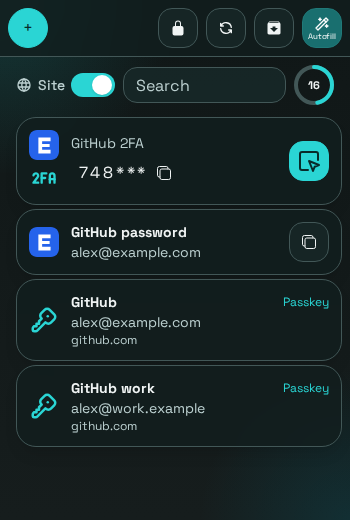
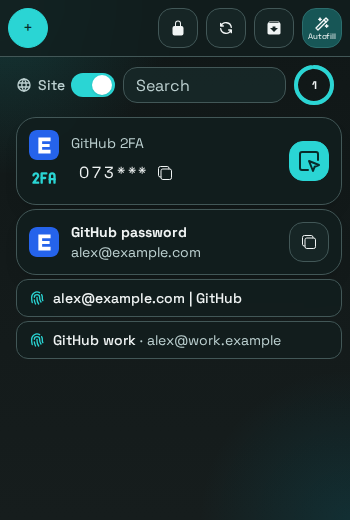
Compact popup passkeys into single-line informational rows

diff --git a/web-extension/src/components/pages/AuthsList.tsx b/web-extension/src/components/pages/AuthsList.tsx
@@ -2,7 +2,7 @@ import { useContext, useEffect, useState } from 'react'
 import { t } from '@lingui/core/macro'
 import browser from 'webextension-polyfill'
 import debug from 'debug'
-import { TbAuth2Fa, TbKey } from 'react-icons/tb'
+import { TbAuth2Fa, TbFingerprint } from 'react-icons/tb'
 import { IoBanOutline, IoCopyOutline } from 'react-icons/io5'
 import { DeviceStateContext } from '@src/providers/DeviceStateProvider'
 import type {
@@ -13,6 +13,7 @@ import type {
 import { Button } from '@src/components/ui/button'
 import { Tooltip } from '@src/components/ui/tooltip'
 import { copyTextToClipboard } from '@src/lib/clipboard'
+import { cn } from '@src/lib/cn'
 import { SecretItemIcon } from '../SecretItemIcon'
 import { useAddOtpEventMutation } from './AuthList.codegen'
 import { getDomainNameAndTldFromUrl } from '@shared/urlUtils'
@@ -184,41 +185,35 @@ const PasskeyListItem = ({
   passkey
 }: {
   passkey: Pick<IPasskeySecret['passkey'], 'label' | 'rpId' | 'userName'>
-}) => (
-  <div className={cardClassName}>
-    <div className="flex items-center gap-3">
-      <TbKey
+}) => {
+  const label = passkey.label || passkey.rpId
+  const showAccount = passkey.userName && !label.includes(passkey.userName)
+
+  return (
+    <div
+      className={cn(
+        cardClassName,
+        'flex items-center gap-2 rounded-xl py-2 shadow-none'
+      )}
+      title={`${label}\n${passkey.userName}\n${passkey.rpId}`}
+    >
+      <TbFingerprint
         aria-hidden
-        className="size-[30px] shrink-0 text-[color:var(--color-primary)]"
+        className="size-4 shrink-0 text-[color:var(--color-primary)]"
       />
-      <div className="min-w-0 flex-1">
-        <div className="flex items-center justify-between gap-2">
-          <h3
-            className="truncate text-sm font-semibold"
-            title={passkey.label || passkey.rpId}
-          >
-            {passkey.label || passkey.rpId}
-          </h3>
-          <span className="shrink-0 text-xs text-[color:var(--color-primary)]">
-            Passkey
+      <p className="min-w-0 flex-1 truncate text-sm">
+        <span className="sr-only">Passkey: </span>
+        <span className="font-medium">{label}</span>
+        {showAccount && (
+          <span className="text-[color:var(--color-muted)]">
+            {' · '}
+            {passkey.userName}
           </span>
-        </div>
-        <p
-          className="truncate text-sm text-[color:var(--color-muted)]"
-          title={passkey.userName}
-        >
-          {passkey.userName}
-        </p>
-        <p
-          className="truncate text-xs text-[color:var(--color-muted)]"
-          title={passkey.rpId}
-        >
-          {passkey.rpId}
-        </p>
-      </div>
+        )}
+      </p>
     </div>
-  </div>
-)
+  )
+}
 
 export const AuthsList = ({
   filterByTLD,

diff --git a/web-extension/ui-preview/scenarios/PasskeyPopupPreview.tsx b/web-extension/ui-preview/scenarios/PasskeyPopupPreview.tsx
@@ -53,7 +53,12 @@ const passkey = (
   }
 })
 const passkeys = [
-  passkey('github-passkey', 'GitHub', 'github.com', 'alex@example.com'),
+  passkey(
+    'github-passkey',
+    'alex@example.com | GitHub',
+    'github.com',
+    'alex@example.com'
+  ),
   passkey(
     'github-work-passkey',
     'GitHub work',
